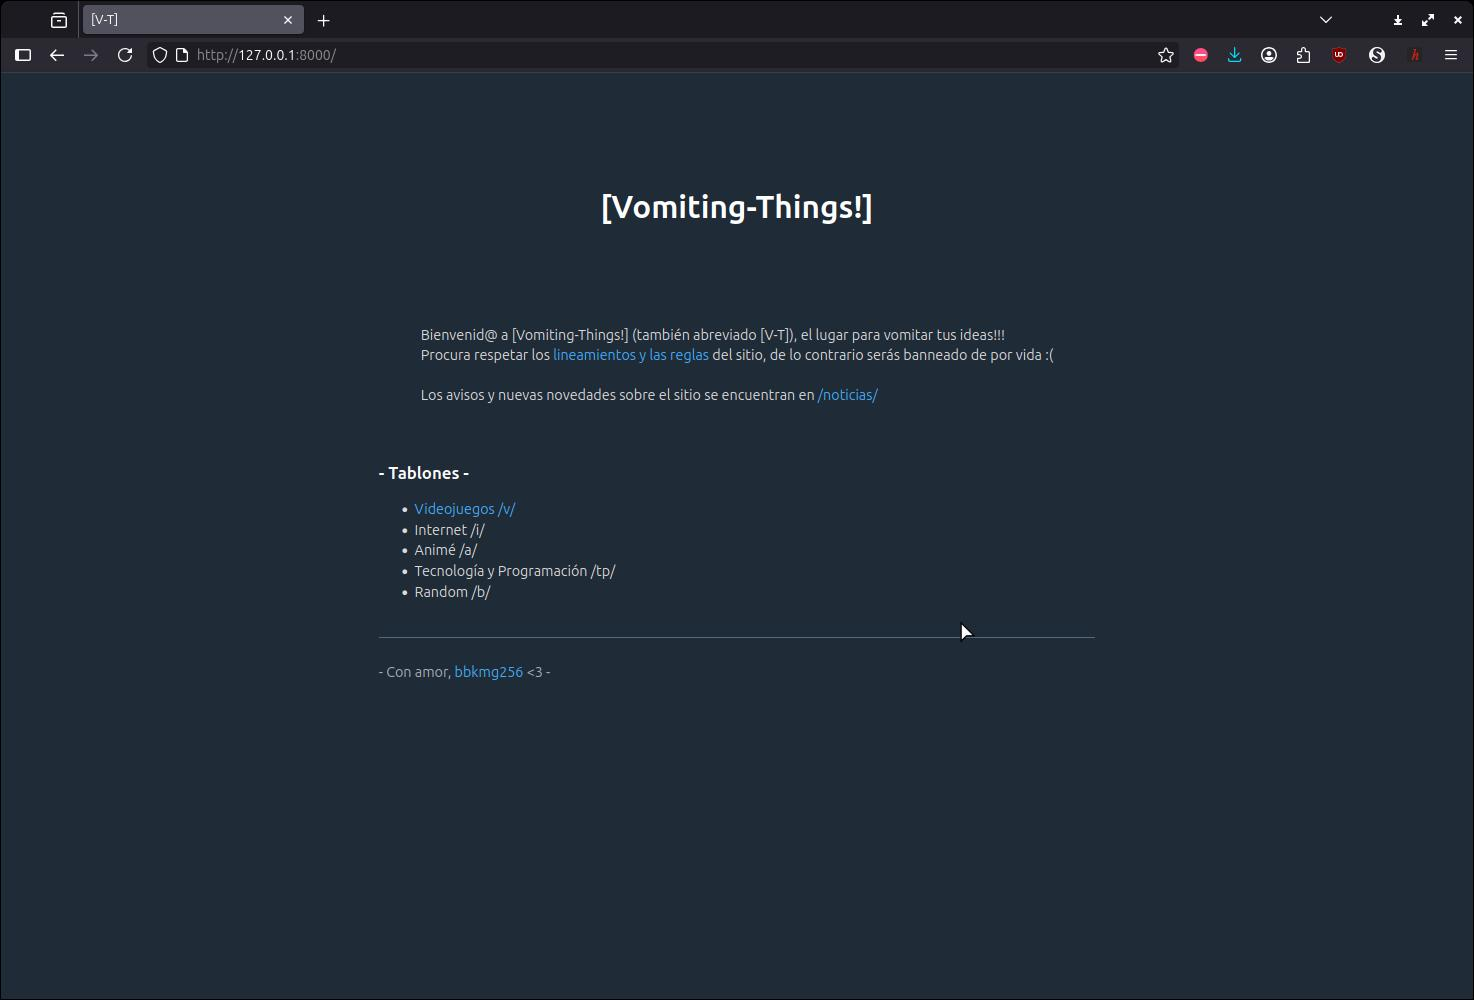
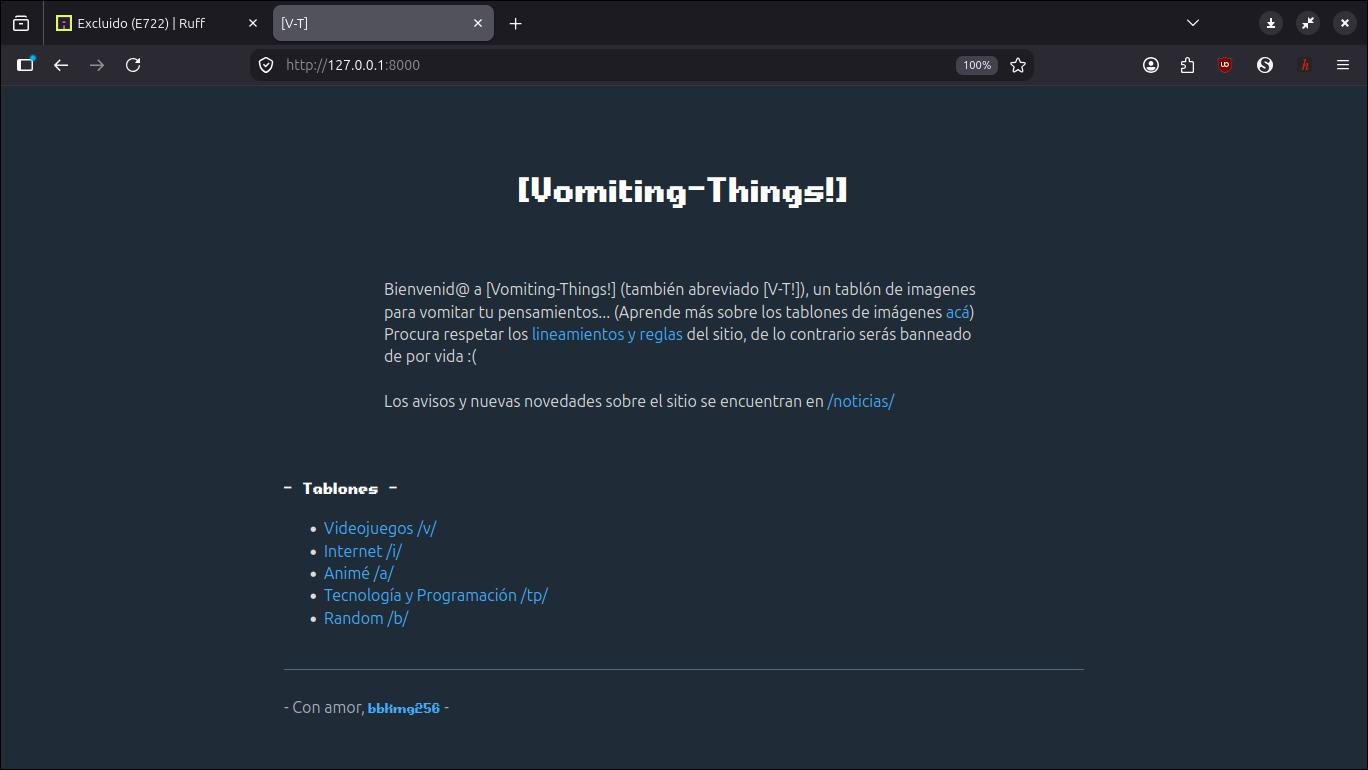
Validación de formularios en proceso, Sistema de respuestas entre usuario, modificaciones visuales varias(Todavía no terminado)

diff --git a/templates/posts/posting_form.html b/templates/posts/posting_form.html
@@ -1,10 +1,14 @@
 <!-- Esta mierda hay que mejorarla, no me acuerdo mucho html -->
-<form action="{% url 'posting_form' simbolo=simbolo_data %}" method="POST" enctype="multipart/form-data" class="contorno-formulario">
+<form action="{% url 'posting_form' simbolo=simbolo_data %}" method="POST" enctype="multipart/form-data">
 	{% csrf_token %}
 	<div>
+		<!-- OP nick -->
+		<div>
+			<input type="text" size="10" name="nick_OP" placeholder="- OP AkA -" onkeydown="if(event.key === 'Enter') event.preventDefault();">
+		</div>
 
+		<!-- - Título y boton de publicación - -->
 		<div class="alinear">
-			<!-- - Título - -->
 			<div>
 				<input type="text" size="17" name="titulo_post" placeholder="- Título -" onkeydown="if(event.key === 'Enter') event.preventDefault();">
 			</div>
@@ -15,26 +19,29 @@
 			</div>
 		</div>
 
-		<!-- Centrar esta mierda -->
+		<!-- - Contenido - -->
 		<div>
-			<!-- - Contenido - -->
-			<textarea rows="10" cols="30" name="contenido_post" placeholder="- Contenido -"></textarea>
+			<textarea  name="contenido_post" placeholder="- Contenido -"></textarea>
 		</div>
 		
+		<!-- Para trabajarlo a futuro, un apartado para cargar links en la publicación -->
+		<!-- Seccion para agregar links -->
+		<div>
+			<input type="text" size="25" name="link_post" placeholder="- Agrega un link -" onkeydown="if(event.key === 'Enter') event.preventDefault();">
+		</div>
+
 		<br>
-		
-		<div>
-			- Imagen - 
-			<input type="file" name="img_post" accept="image/*">
-			<div class="tam-maximo-lista">
-				<ul class="tam-fuente">
-					<li>1 imagen máximo.</li>
-					<li>Formatos soportados: GIF, JPG, PNG, JPEG, y cualquier otro formato de "IMAGEN".</li>
-					<li>Tamaño máximo: 40MB</li>
-					<li>TEN CUIDADO CON LA IMAGEN QUE SUBES!!!</li>
-				</ul>				
-			</div>
-		</div>
+	</div>
+	<!-- Segmento para subir imagenes -->
+	<div class="contenedor-archivo">
+		- Imagen - 
+		<input type="file" name="img_post" accept="image/*">
+		<ul class="tam-fuente">
+			<li>1 imagen máximo.</li>
+			<li>Formatos soportados: GIF, JPG, PNG, JPEG, WEBP.</li>
+			<li>Tamaño máximo: 40MB</li>
+			<li class="fuente-negrita">TEN CUIDADO CON LA IMAGEN QUE SUBES!!!</li>
+		</ul>
 	</div>
 	<!-- <input type="submit" name="post_boton" value="Vomitar"> -->
 </form>

diff --git a/static/css/style.css b/static/css/style.css
@@ -56,14 +56,12 @@
     gap: 15px; /* Espacio automático entre los bloques internos */
 }
 
-.tam-maximo-lista {
-    width: 300px;
-}
 
-.tam-maximo {
-    /*border: 4px solid;*/
+/*.tam-maximo {
+    border: 4px solid;
     max-width: 600px;
 }
+*/
 
 /*Tamaño fuente de letra*/
 .tam-fuente {
@@ -72,6 +70,10 @@
 
 .tam-fuente-titulo-post {
     font-size: 30px;
+}
+
+.fuente-negrita {
+    font-weight: bold;
 }
 
 .contorno-respuesta-post {
@@ -96,11 +98,24 @@
 
 /*Solo para testear el ajuste de los divs y contenedores*/
 .contorno-testing-divs {
-    border : 3px solid #ccc; 
+    border : 3px solid #ccc;}
+
+.header-tam-fuente {
+    font-size: 12px;
 }
 
-/*.tiny5-regular {
-  font-family: "Tiny5", sans-serif;
-  font-weight: 400;
-  font-style: normal;
-}*/
+.contenedor-archivo {
+  max-width: 350px; 
+  width: 100%;
+  overflow: hidden;
+}
+
+/* Fuerza al input a ocupar todo el ancho disponible de su contenedor */
+.contenedor-archivo input[type="file"] {
+  width: 100%;
+}
+
+.expandir-alineado {
+    justify-content: space-between;
+    width: 100%;
+}

diff --git a/templates/posts/response_post_form.html b/templates/posts/response_post_form.html
@@ -1,17 +1,14 @@
 <form action="{% url 'response_posting_form' simbolo=simbolo_data id_post=id %}" method="POST">
 	{% csrf_token %}
 	<div>
-		<p>
-			<!-- Centrar esta mierda -->
-			<div>
-				<div>
-					<!-- - Contenido - -->
-				</div>
-				<div>
-					<textarea rows="5" cols="30" name="contenido_post" placeholder="- Respuesta -"></textarea>	
-				</div>
-			</div>
-		</p>
+		<!-- Segmento para referenciar un comentario -->
+		<div class="alinear">
+			<input type="text" size="15" name="id_respuesta_coment" placeholder="- ID comentario -" onkeydown="if(event.key === 'Enter') event.preventDefault();">
+			<input type="submit" name="post_boton" value="Responder">
+		</div>
+			<!-- - Contenido - -->
+		<div>
+			<textarea rows="5" cols="30" name="contenido_post" placeholder="- Respuesta -"></textarea>	
+		</div>
 	</div>
-	<input type="submit" name="post_boton" value="Responder">
 </form>

diff --git a/templates/core/home.html b/templates/core/home.html
@@ -42,7 +42,16 @@
 
 	<!-- Por acá tiene que haber una seccion que tenga la cantidad de post subidos al sitio -->
 	<footer>
-		<p>- Con amor, <a href="https://github.com/bbkmg256" class="fuente-alph">bbkmg256</a> -</p>
+		<div class="alinear-contenedor">
+			<div class="alinear expandir-alineado">
+				<div>
+					<p>- Con amor, <a href="https://github.com/bbkmg256" class="fuente-alph">bbkmg256</a> -</p>
+				</div>
+				<div>
+					<p>Ver. 0.1.0</p>
+				</div>
+			</div>
+		</div>
 	</footer>
 </body>
 </html>

diff --git a/templates/tablon/tablon.html b/templates/tablon/tablon.html
@@ -11,7 +11,7 @@
 </head>
 <body>
 	<header>
-		<div>
+		<div class="header-tam-fuente">
 			{% include "core/header_links.html" %}
 		</div>
 	</header>
@@ -35,7 +35,7 @@
 	<!-- Capas al div lo incluya dentro de la misma plantilla del formulario, en vez de tenerlo acá -->
 	<!-- Formulario para postear -->
 	<div class="alinear-contenedor">
-		<div>
+		<div class="contorno-formulario">
 			{% include "posts/posting_form.html" with simbolo_data=simb %}
 		</div>
 	</div>

diff --git a/templates/posts/post_list.html b/templates/posts/post_list.html
@@ -12,6 +12,10 @@
 	<img src="{{ post.archivo_img.url }}" width="400" loading="lazy">
 	{% endif %}
 
+	<!-- Segmento para la referencia por ID de otros comentarios -->
+	<!-- Acá va una condicional de modo que si no es null, muestre la referencia del comentario -->
+	<!-- <p></p> -->
+
 	<!-- Filtro para traducir saltos de linea a etiquetas br -->
 	<p>{{ post.contenido|linebreaks }}</p>
 

diff --git a/src/apps/posts/views.py b/src/apps/posts/views.py
@@ -3,8 +3,8 @@ from django.shortcuts import redirect, render
 
 from apps.posts.models import Comentario, Post
 from apps.tablon.models import Tablon
-from .forms import Post_form
 
+from .forms import Post_form, Comentario_form
 
 """
 Las validaciones de campo deberían hacerse en JS para el navegador del usuario, así no se está
@@ -75,12 +75,15 @@ def response_posting_form(request, simbolo, id_post):
         except Exception as e:
             print(f"{e}")
             return HttpResponse("404")
-        # if post.tablon.id != simbolo:
-        #     return HttpResponse("404")
-        # Por el momento se admiten respuestas vacias xd
-        # Crea una respuesta/comentario para un post
-        Comentario.objects.create(contenido=request.POST["contenido_post"], post=post)
-        # print("LOG: Comentario creado!")
+        # Validador de formularios
+        form = Comentario_form(request.POST)
+        if form.is_valid():
+            # Crea una respuesta/comentario para un post
+            Comentario.objects.create(
+                contenido=request.POST["contenido_post"], post=post
+            )
+        else:
+            print(form.errors)
         return redirect("post_view", simbolo, id_post)
     return HttpResponse("404")
 

diff --git a/src/apps/posts/models.py b/src/apps/posts/models.py
@@ -7,6 +7,8 @@ from apps.tablon.models import Tablon
 # Clase para los posteos
 class Post(models.Model):
     id = models.BigAutoField(primary_key=True)
+    # Nick del OP
+    op_aka = models.CharField(max_length=20, null=True)
     titulo = models.CharField(max_length=60, null=False)
     contenido = models.TextField(null=False)
     fecha_publicacion = models.DateField(default=timezone.localdate)
@@ -24,4 +26,14 @@ class Comentario(models.Model):
     fecha_publicacion = models.DateField(default=timezone.localdate)
     hora_publicacion = models.TimeField(default=timezone.localtime)
     # Post al que pertenece el comentario
+    post = models.ForeignKey(Post, on_delete=models.CASCADE)
+    # Campo autoreferencial (Sub comentarios)
+    sub_comentario = models.ForeignKey("self", on_delete=models.CASCADE, null=True)
+
+
+# Clase para los enlaces de posteo
+class Enlaces(models.Model):
+    id = models.BinaryField(primary_key=True)
+    enlace = models.URLField()
+    # Post relacinado al enlace (1 pos puede contener varios enlaces)
     post = models.ForeignKey(Post, on_delete=models.CASCADE)

diff --git a/src/apps/posts/migrations/0002_comentario_sub_comentario_enlaces.py b/src/apps/posts/migrations/0002_comentario_sub_comentario_enlaces.py
@@ -1,0 +1,27 @@
+# Generated by Django 6.0.7 on 2026-08-23 12:23
+
+import django.db.models.deletion
+from django.db import migrations, models
+
+
+class Migration(migrations.Migration):
+
+    dependencies = [
+        ('posts_app', '0001_initial'),
+    ]
+
+    operations = [
+        migrations.AddField(
+            model_name='comentario',
+            name='sub_comentario',
+            field=models.ForeignKey(null=True, on_delete=django.db.models.deletion.CASCADE, to='posts_app.comentario'),
+        ),
+        migrations.CreateModel(
+            name='Enlaces',
+            fields=[
+                ('id', models.BinaryField(primary_key=True, serialize=False)),
+                ('enlace', models.URLField()),
+                ('post', models.ForeignKey(on_delete=django.db.models.deletion.CASCADE, to='posts_app.post')),
+            ],
+        ),
+    ]

diff --git a/src/apps/posts/migrations/0003_post_op_aka.py b/src/apps/posts/migrations/0003_post_op_aka.py
@@ -1,0 +1,18 @@
+# Generated by Django 6.0.7 on 2026-08-23 12:28
+
+from django.db import migrations, models
+
+
+class Migration(migrations.Migration):
+
+    dependencies = [
+        ('posts_app', '0002_comentario_sub_comentario_enlaces'),
+    ]
+
+    operations = [
+        migrations.AddField(
+            model_name='post',
+            name='op_aka',
+            field=models.CharField(max_length=20, null=True),
+        ),
+    ]

diff --git a/src/apps/posts/forms.py b/src/apps/posts/forms.py
@@ -1,6 +1,6 @@
 from django import forms
-from PIL import Image  # Pillow
 from django.core.exceptions import ValidationError
+from PIL import Image  # Pillow
 
 
 # Validadores personalizados #
@@ -30,3 +30,7 @@ class Post_form(forms.Form):
 
     # Campos no obligatorios
     img_post = forms.ImageField(required=False, validators=[validar_formato_imagen])
+
+
+class Comentario_form(forms.Form):
+    contenido_post = forms.CharField()

diff --git a/README.md b/README.md
@@ -5,6 +5,10 @@ Imageboard para vomitar y debatir ideas! :)
 ### \[Dependencias]
 - django
 - gunicorn
+- pillow
+- configparser
+- django-minify-html
+- django-stubs (Para el servidor de lenguaje Pyrefly)
 
 ### \[Árbol de dirs.]
 ```text
